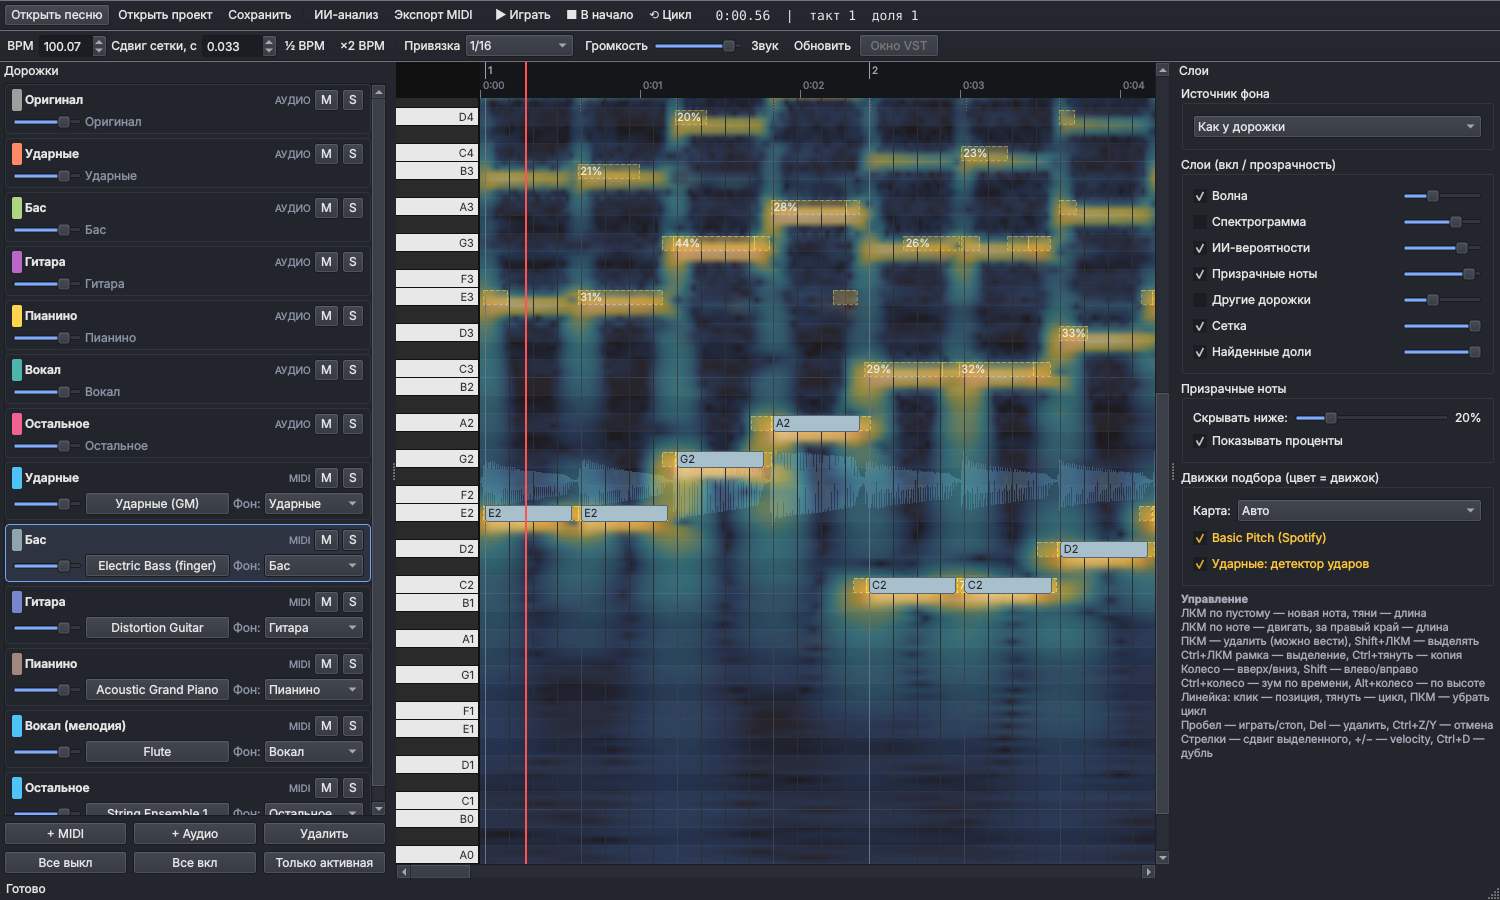
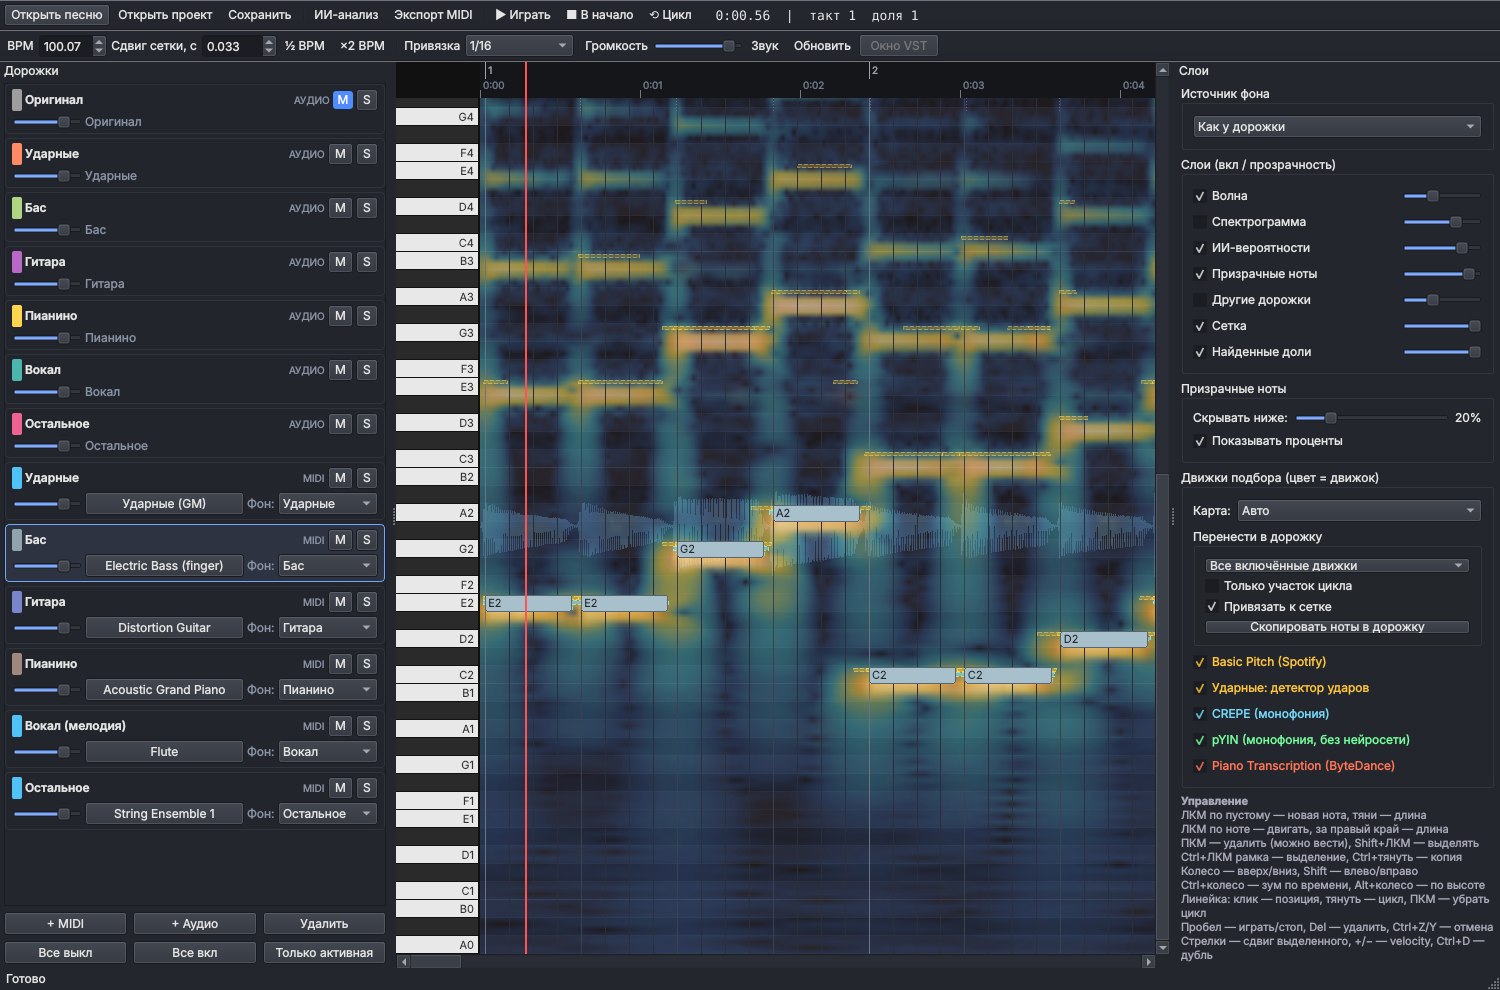
0.3.0: MuScriptor as primary engine, copy ghost notes into track, engine error reporting, CREPE/numba fixes
Claude-Session: https://claude.ai/code/session_01Xa1XXLWuN71Yw91fDDTXLZ

diff --git a/stemnotes/analysis/engines.py b/stemnotes/analysis/engines.py
@@ -127,6 +127,7 @@ def run_crepe(path: Path, mono: np.ndarray, sr: int, role: str):
     import torchcrepe
     import soxr
     fmin, fmax = ROLE_RANGE.get(role, (50.0, 2000.0))
+    fmin = max(fmin, 33.0)   # CREPE's lowest bin is ~32.7 Hz; a lower fmin masks every bin and yields NaN
     audio16 = soxr.resample(mono.astype(np.float32), sr, 16000).astype(np.float32)
     x = torch.from_numpy(audio16)[None, :]
     hop = 160  # 10 ms
@@ -201,7 +202,7 @@ def _muscriptor_model():
     token = st.get("hf_token")
     if token:
         os.environ["HF_TOKEN"] = token
-    size = st.get("muscriptor_model") or "medium"
+    size = st.get("muscriptor_model") or ("large" if _device() == "cuda" else "medium")
     key = (size, _device())
     if key not in _musc_cache:
         from muscriptor import TranscriptionModel
@@ -260,6 +261,12 @@ def run_drums_heuristic(path: Path, mono: np.ndarray, sr: int, role: str):
 
 
 ENGINES: list[Engine] = [
+    Engine("muscriptor", "MuScriptor (вся песня)", "pitched", ["mix", "bass", "drums", "guitar", "piano", "vocals", "other"], (255, 110, 220),
+           "Основной движок. Kyutai/Mirelo: один проход по оригиналу, ноты раскладываются по инструментам, включая ударные. "
+           "Нужен HF-токен и принятая лицензия модели (некоммерческая).", ["muscriptor", "torch"], run_muscriptor_mix, multi_role=True),
+    Engine("muscriptor_stem", "MuScriptor (по стемам)", "pitched", ["bass", "drums", "guitar", "piano", "vocals"], (200, 120, 255),
+           "MuScriptor отдельно на каждом стеме с ограничением по инструменту. Точнее на плотных миксах, дольше.",
+           ["muscriptor", "torch"], run_muscriptor_stem, default_on=False),
     Engine("basic_pitch", "Basic Pitch (Spotify)", "pitched", list(PITCHED_ROLES), (255, 200, 60),
            "Полифония, любой инструмент. Даёт несколько кандидатов и карту вероятностей.", ["basic_pitch", "onnxruntime"], run_basic_pitch),
     Engine("crepe", "CREPE (монофония)", "pitched", ["bass", "vocals"], (120, 220, 255),
@@ -268,12 +275,6 @@ ENGINES: list[Engine] = [
            "Классический алгоритм для одноголосных партий. Быстрый, без моделей.", ["librosa"], run_pyin, default_on=False),
     Engine("piano_bytedance", "Piano Transcription (ByteDance)", "pitched", ["piano"], (255, 120, 90),
            "Лучшая модель для фортепиано. Первый запуск скачивает ~170 МБ в models.", ["piano_transcription_inference", "torch"], run_piano_bytedance),
-    Engine("muscriptor", "MuScriptor (вся песня)", "pitched", ["mix", "bass", "drums", "guitar", "piano", "vocals", "other"], (255, 110, 220),
-           "Kyutai/Mirelo: один проход по оригиналу, ноты раскладываются по инструментам, включая ударные. "
-           "Нужен HF-токен и принятая лицензия модели (некоммерческая).", ["muscriptor", "torch"], run_muscriptor_mix, multi_role=True),
-    Engine("muscriptor_stem", "MuScriptor (по стемам)", "pitched", ["bass", "drums", "guitar", "piano", "vocals"], (200, 120, 255),
-           "MuScriptor отдельно на каждом стеме с ограничением по инструменту. Точнее на плотных миксах, дольше.",
-           ["muscriptor", "torch"], run_muscriptor_stem, default_on=False),
     Engine("drums_heuristic", "Ударные: детектор ударов", "drums", ["drums"], (255, 200, 60),
            "Поиск ударов + классификация бочка/малый/хэт/тарелка по спектру.", ["librosa"], run_drums_heuristic),
 ]
@@ -285,9 +286,12 @@ def engine_color(engine_id: str) -> tuple[int, int, int]:
     return e.color if e else (255, 200, 60)
 
 
-def run_engine(engine: Engine, path: Path, mono: np.ndarray, sr: int, role: str):
+def run_engine(engine: Engine, path: Path, mono: np.ndarray, sr: int, role: str, errors: list[str] | None = None):
     try:
         return engine.run(path, mono, sr, role)
-    except Exception:
+    except Exception as e:
         traceback.print_exc()
+        if errors is not None:
+            msg = str(e).strip().splitlines()
+            errors.append(f"{engine.name}: " + (msg[0] if msg else type(e).__name__) + ("\n   " + "\n   ".join(msg[1:8]) if len(msg) > 1 else ""))
         return ({}, None) if engine.multi_role else ([], None)

diff --git a/stemnotes/ui/layers_panel.py b/stemnotes/ui/layers_panel.py
@@ -2,7 +2,7 @@
 from __future__ import annotations
 
 from PySide6.QtCore import Qt, Signal
-from PySide6.QtWidgets import QCheckBox, QComboBox, QFormLayout, QGroupBox, QHBoxLayout, QLabel, QSlider, QVBoxLayout, QWidget
+from PySide6.QtWidgets import QCheckBox, QComboBox, QFormLayout, QGroupBox, QHBoxLayout, QLabel, QPushButton, QSlider, QVBoxLayout, QWidget
 
 from .piano_roll import Layer, LayerSettings
 from .track_panel import SOURCE_LABELS
@@ -39,6 +39,7 @@ class LayerRow(QWidget):
 
 class LayersPanel(QWidget):
     changed = Signal()
+    import_requested = Signal(object, bool, bool)   # engine ids (set or None), only loop region, snap to grid
 
     def __init__(self, settings: LayerSettings, parent=None):
         super().__init__(parent)
@@ -93,6 +94,20 @@ class LayersPanel(QWidget):
         hrow.addWidget(QLabel("Карта:"))
         hrow.addWidget(self.heat_combo, 1)
         self.eng_lay.addLayout(hrow)
+        imp = QGroupBox("Перенести в дорожку")
+        il = QVBoxLayout(imp)
+        self.imp_engine = QComboBox()
+        self.imp_engine.setToolTip("Чьи призрачные ноты скопировать в активную MIDI-дорожку как обычные ноты (потом правите руками)")
+        il.addWidget(self.imp_engine)
+        self.imp_loop = QCheckBox("Только участок цикла")
+        self.imp_snap = QCheckBox("Привязать к сетке")
+        self.imp_snap.setChecked(True)
+        il.addWidget(self.imp_loop)
+        il.addWidget(self.imp_snap)
+        self.imp_btn = QPushButton("Скопировать ноты в дорожку")
+        self.imp_btn.clicked.connect(self._on_import)
+        il.addWidget(self.imp_btn)
+        self.eng_lay.addWidget(imp)
         self.eng_hint = QLabel("Запустите «ИИ-анализ», чтобы появились кандидаты нот.")
         self.eng_hint.setStyleSheet("color:#8a93a5;")
         self.eng_hint.setWordWrap(True)
@@ -144,6 +159,14 @@ class LayersPanel(QWidget):
             cb.toggled.connect(self._on_engines)
             self.eng_checks[eid] = cb
             self.eng_lay.addWidget(cb)
+        self.imp_engine.clear()
+        self.imp_engine.addItem("Все включённые движки", None)
+        for eid in engine_ids:
+            e = ENGINE_BY_ID.get(eid)
+            self.imp_engine.addItem(e.name if e else eid, eid)
+        pref = self.imp_engine.findData("muscriptor")
+        if pref > 0:
+            self.imp_engine.setCurrentIndex(pref)
         self.heat_combo.blockSignals(True)
         self.heat_combo.clear()
         self.heat_combo.addItem("Авто", None)
@@ -153,6 +176,11 @@ class LayersPanel(QWidget):
         idx = self.heat_combo.findData(self.s.heat_engine)
         self.heat_combo.setCurrentIndex(max(0, idx))
         self.heat_combo.blockSignals(False)
+
+    def _on_import(self) -> None:
+        eid = self.imp_engine.currentData()
+        engines = {eid} if eid else self.s.ghost_engines
+        self.import_requested.emit(engines, self.imp_loop.isChecked(), self.imp_snap.isChecked())
 
     def _on_engines(self, _v=None) -> None:
         on = {eid for eid, cb in self.eng_checks.items() if cb.isChecked()}

diff --git a/stemnotes/ui/piano_roll.py b/stemnotes/ui/piano_roll.py
@@ -253,6 +253,40 @@ class PianoRoll(QWidget):
         self.selected.clear()
         self._commit()
 
+    def import_ghosts(self, engine_ids: set[str] | None, only_loop: bool = False, snap: bool = True) -> int:
+        """Copy ghost notes (seconds) of the active source into the active track as editable notes (beats)."""
+        if self.track is None or self.project is None:
+            return 0
+        role = self.active_source()
+        groups = self.project.analysis.ghosts_for(role or "", engine_ids)
+        if not groups:
+            return 0
+        self.push_undo()
+        base = len(self.track.notes)
+        a, b = (self.loop_a, self.loop_b) if (only_loop and self.loop_b > self.loop_a) else (None, None)
+        seen: set[tuple[float, int]] = set()
+        for _eng, ghosts in groups:
+            for g in ghosts:
+                if g.conf >= 0 and g.conf < self.layers.ghost_min_conf:
+                    continue
+                if a is not None and (g.end <= a or g.start >= b):
+                    continue
+                start = self.project.sec_to_beat(g.start)
+                end = self.project.sec_to_beat(g.end)
+                if snap and self.snap > 0:
+                    start = self.snap_beat(start)
+                    end = max(start + self.snap, self.snap_beat(end))
+                key = (round(start, 3), g.pitch)
+                if key in seen:
+                    continue
+                seen.add(key)
+                vel = 100 if g.conf < 0 else int(60 + 67 * min(1.0, g.conf))
+                self.track.notes.append(Note(float(start), float(max(0.05, end - start)), int(g.pitch), vel))
+        added = len(self.track.notes) - base
+        self.selected = set(range(base, base + added))
+        self._commit()
+        return added
+
     def _commit(self) -> None:
         if self.track is None:
             return

diff --git a/stemnotes/analysis/pipeline.py b/stemnotes/analysis/pipeline.py
@@ -175,12 +175,12 @@ def run_analysis(project: Project, opt: AnalysisOptions, progress: Callable[[flo
         from .engines import ENGINES, run_engine
         chosen = [e for e in ENGINES if e.available() and (opt.engines is None and e.default_on or opt.engines is not None and e.id in opt.engines)]
         jobs = [(e, role) for e in chosen for role in sources if role in e.roles and not e.multi_role]
+        an.warnings = []
         multi = [e for e in chosen if e.multi_role]
         for eng in multi:
             check()
-            progress(0.65, f"{eng.name}…")
-            errors = []
-            result = run_engine(eng, song, sources["mix"], features.ANALYSIS_SR, "mix")
+            progress(0.65, f"{eng.name}: вся песня… (первый запуск скачивает модель)")
+            result = run_engine(eng, song, sources["mix"], features.ANALYSIS_SR, "mix", an.warnings)
             if isinstance(result, tuple):
                 result = {}
             for role, (ghosts, heat) in result.items():
@@ -193,7 +193,7 @@ def run_analysis(project: Project, opt: AnalysisOptions, progress: Callable[[flo
             path = song if role == "mix" else stems.get(role)
             if path is None:
                 continue
-            ghosts, heat = run_engine(eng, path, sources[role], features.ANALYSIS_SR, role)
+            ghosts, heat = run_engine(eng, path, sources[role], features.ANALYSIS_SR, role, an.warnings)
             an.ghosts[f"{role}:{eng.id}"] = ghosts
             if heat is not None:
                 an.images[f"heat:{role}:{eng.id}"] = heat

diff --git a/stemnotes/ui/main_window.py b/stemnotes/ui/main_window.py
@@ -91,6 +91,7 @@ class MainWindow(QMainWindow):
         dock_r.setMinimumWidth(300)
         self.addDockWidget(Qt.DockWidgetArea.RightDockWidgetArea, dock_r)
         self.layers.changed.connect(self.roll.invalidate)
+        self.layers.import_requested.connect(self._import_ghosts)
 
         self._build_toolbar()
         self.statusBar().showMessage("Готово")
@@ -446,6 +447,13 @@ class MainWindow(QMainWindow):
         t = self.project.track_by_id(tid)
         self.roll.set_track(t)
         self.vst_btn.setEnabled(t is not None and t.kind == "midi" and t.instrument.get("type") == "vst3")
+
+    def _import_ghosts(self, engines, only_loop: bool, snap: bool) -> None:
+        if self.project is None or self.roll.track is None:
+            self.statusBar().showMessage("Выберите MIDI-дорожку, в которую скопировать ноты", 4000)
+            return
+        n = self.roll.import_ghosts(engines, only_loop, snap)
+        self.statusBar().showMessage(f"Скопировано нот: {n} (Ctrl+Z — отменить)", 5000)
 
     def _choose_instrument(self, tid: str) -> None:
         t = self.project.track_by_id(tid) if self.project else None

diff --git a/stemnotes/paths.py b/stemnotes/paths.py
@@ -29,7 +29,13 @@ def setup_model_env() -> None:
     os.environ.setdefault("HF_HOME", str(MODELS_DIR / "huggingface"))
     os.environ.setdefault("HF_HUB_CACHE", str(MODELS_DIR / "huggingface" / "hub"))
     os.environ.setdefault("XDG_CACHE_HOME", str(CACHE_DIR))
-    os.environ.setdefault("NUMBA_CACHE_DIR", str(CACHE_DIR / "numba"))
+    # numba's on-disk cache must not outlive a numba/llvmlite upgrade (stale entries segfault), so key it by version
+    try:
+        from importlib.metadata import version as _ver
+        numba_tag = "numba-" + _ver("numba")
+    except Exception:
+        numba_tag = "numba"
+    os.environ.setdefault("NUMBA_CACHE_DIR", str(CACHE_DIR / numba_tag))
     os.environ.setdefault("LIBROSA_CACHE_DIR", str(CACHE_DIR / "librosa"))
     os.environ.setdefault("MPLCONFIGDIR", str(CACHE_DIR / "mpl"))
     for key in ("TORCH_HOME", "HF_HOME", "HF_HUB_CACHE", "NUMBA_CACHE_DIR", "LIBROSA_CACHE_DIR", "MPLCONFIGDIR"):

diff --git a/stemnotes/updater.py b/stemnotes/updater.py
@@ -161,6 +161,9 @@ def apply_zip(data: bytes, progress: Progress) -> dict:
 def install_requirements(progress: Progress, ai: bool | None = None) -> None:
     """pip install for changed requirement files (fast no-op when everything is already satisfied)."""
     home = paths.HOME
+    # compiled numba caches from the previous library set can crash the new one
+    for d in paths.CACHE_DIR.glob("numba*"):
+        shutil.rmtree(d, ignore_errors=True)
     py = sys.executable
     cmds = [[py, "-m", "pip", "install", "--no-warn-script-location", "-q", "-r", str(home / "requirements-base.txt")],
             [py, "-m", "pip", "install", "--no-warn-script-location", "-q", "--no-deps", "tinysoundfont"]]

diff --git a/stemnotes/ui/dialogs.py b/stemnotes/ui/dialogs.py
@@ -227,6 +227,9 @@ class AnalysisDialog(QDialog):
             self.timer.stop()
             err = self._done
             if err is None:
+                warns = list(getattr(self.project.analysis, "warnings", []))
+                if warns:
+                    QMessageBox.warning(self, "Анализ завершён с замечаниями", "Часть движков не отработала:\n\n" + "\n\n".join(warns))
                 self.finished_ok.emit()
                 self.accept()
             else:

diff --git a/stemnotes/project.py b/stemnotes/project.py
@@ -115,6 +115,7 @@ class Analysis:
         self.images: dict[str, PitchImage] = {}   # key like "spec:bass", "heat:bass"
         self.beats: list[float] = []
         self.sources: list[str] = []              # roles that have data (mix, bass, drums, ...)
+        self.warnings: list[str] = []             # last analysis run problems (not saved)
 
     def load(self) -> None:
         meta = self.dir / "analysis.json"

diff --git a/README.md b/README.md
@@ -53,9 +53,14 @@ sudo apt install python3 python3-venv libportaudio2   # Debian/Ubuntu
 
 ### Несколько движков подбора нот
 
-В окне анализа можно включить несколько движков одновременно; их кандидаты рисуются разными цветами,
+Основной движок — **MuScriptor**: он один раз проходит по всей песне и раскладывает ноты по инструментам,
+включая ударные. В окне анализа можно включить и другие движки; их кандидаты рисуются разными цветами,
 а в панели «Слои» каждый движок включается и выключается отдельно. Так можно сравнить, кто лучше
 угадал партию, и оставить один или смотреть все сразу.
+
+**Перенести в дорожку**: в панели «Слои» выберите движок и нажмите «Скопировать ноты в дорожку» — его
+призрачные ноты станут обычными нотами активной MIDI-дорожки, которые дальше правятся руками
+(Ctrl+Z отменяет). Галочки: только участок цикла; привязать к сетке.
 
 | Движок | Для чего | Цвет |
 |---|---|---|
